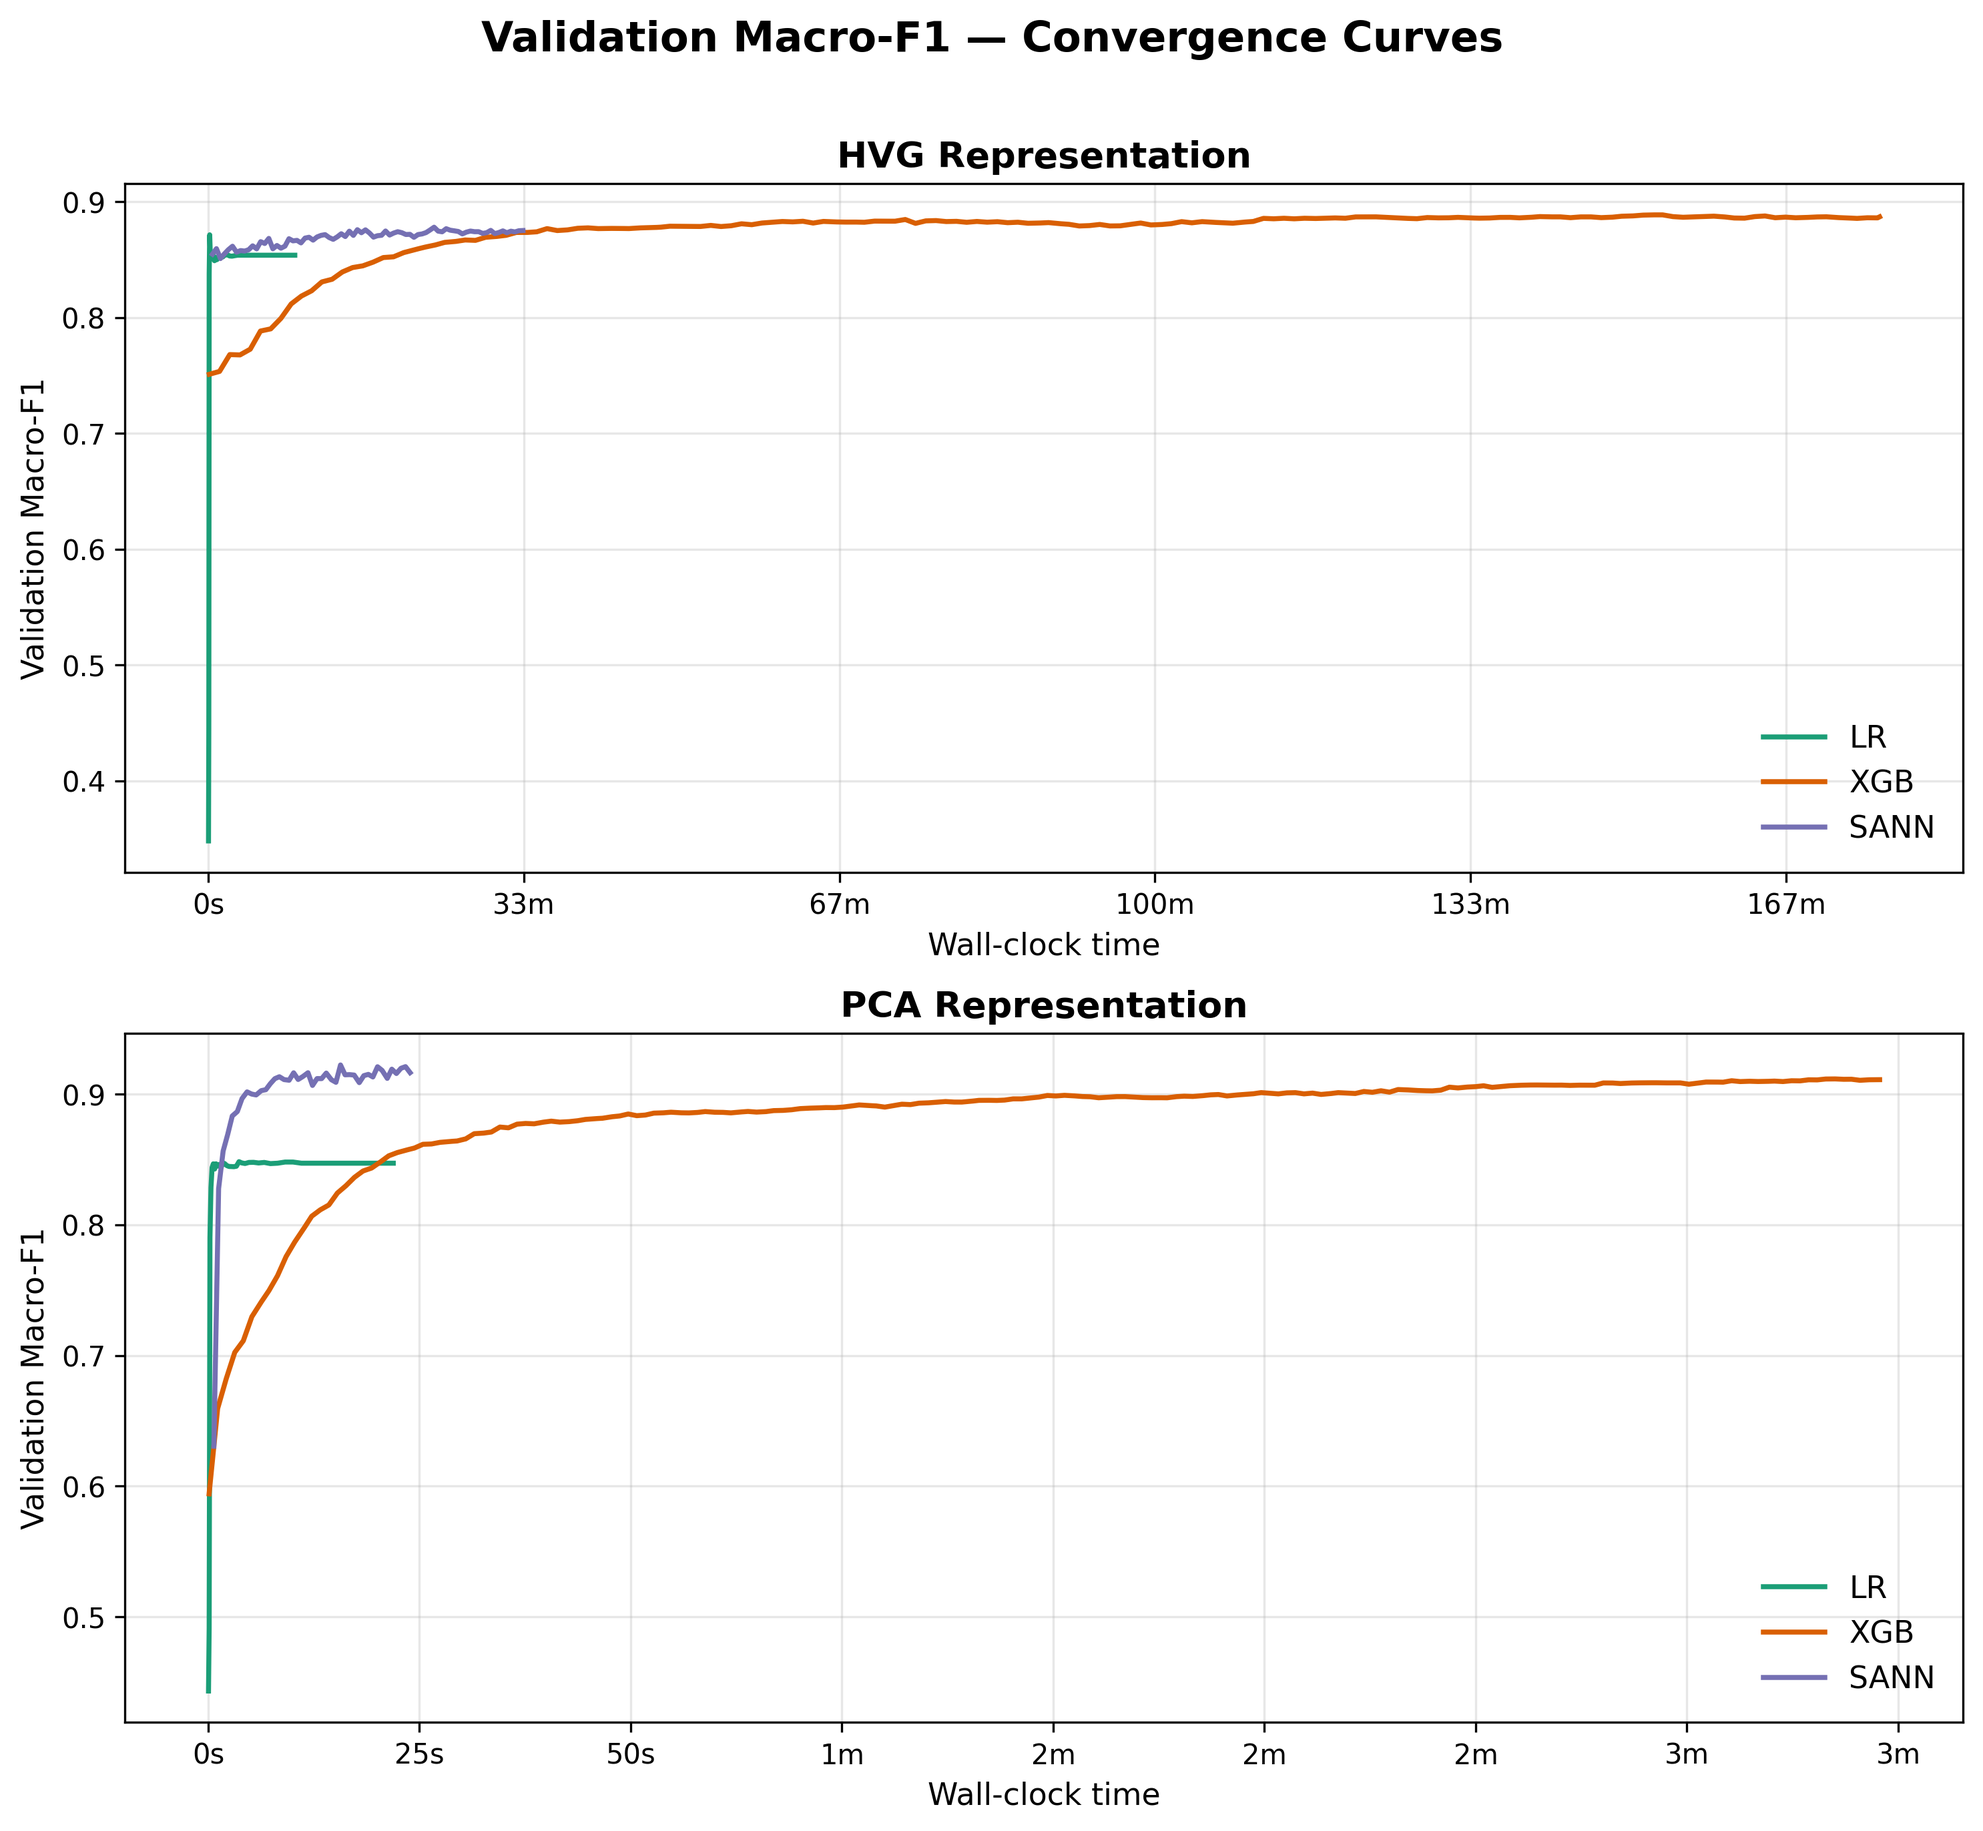
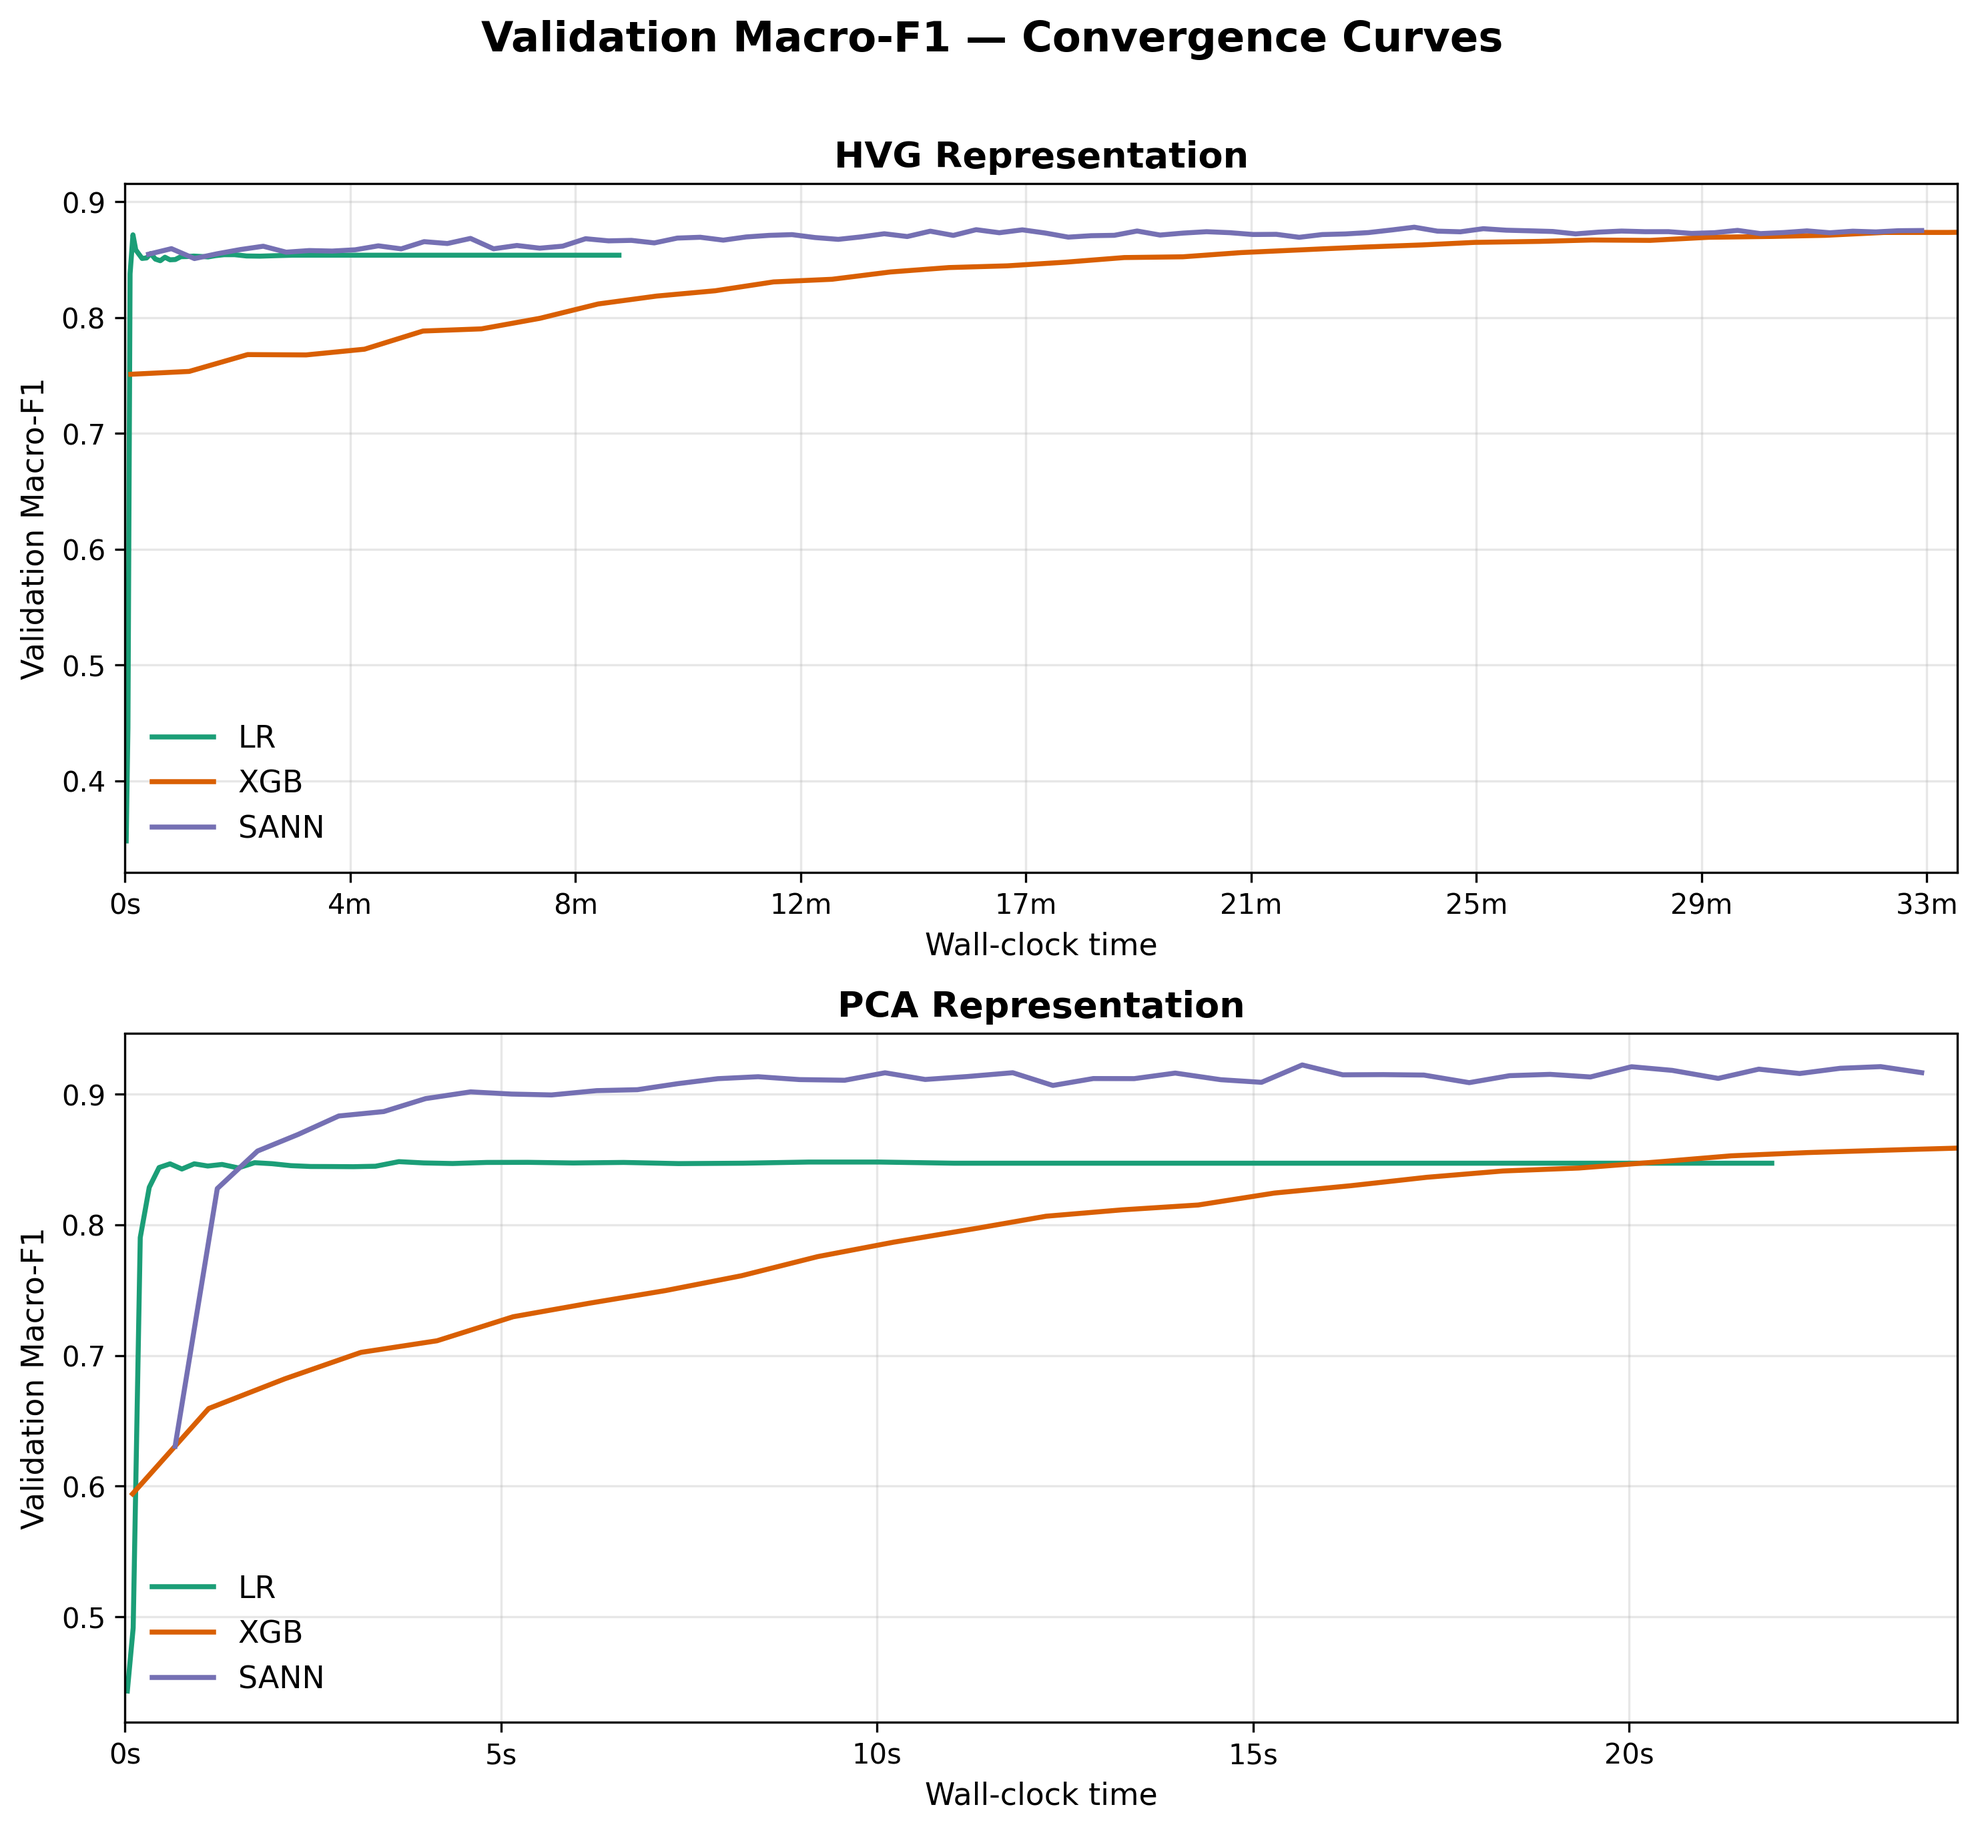
Convergence Against time now

diff --git a/src/plot_convergence_curves_option2.py b/src/plot_convergence_curves_option2.py
@@ -128,12 +128,20 @@ def main():
 
     for row, rep in enumerate(rep_labels):
         ax = axes_loss[row, 0]
+        # Use SANN's final time as the x-axis limit
+        sann_max_t = None
+        if "SANN" in reps[rep]:
+            sann_max_t = reps[rep]["SANN"][0][-1]
+
         for model in MODEL_ORDER:
             if model in reps[rep]:
                 t, vl, _ = reps[rep][model]
                 vl_plot = moving_average(vl, args.smooth) if args.smooth > 1 else vl
                 ax.plot(t, vl_plot, color=COLORS[model], linewidth=1.8,
                         label=model)
+
+        if sann_max_t is not None:
+            ax.set_xlim(0, sann_max_t * 1.02)
 
         ax.set_xlabel("Wall-clock time", fontsize=11)
         ax.set_ylabel("Validation Loss", fontsize=11)
@@ -160,12 +168,19 @@ def main():
 
     for row, rep in enumerate(rep_labels):
         ax = axes_f1[row, 0]
+        sann_max_t = None
+        if "SANN" in reps[rep]:
+            sann_max_t = reps[rep]["SANN"][0][-1]
+
         for model in MODEL_ORDER:
             if model in reps[rep]:
                 t, _, vf = reps[rep][model]
                 vf_plot = moving_average(vf, args.smooth) if args.smooth > 1 else vf
                 ax.plot(t, vf_plot, color=COLORS[model], linewidth=1.8,
                         label=model)
+
+        if sann_max_t is not None:
+            ax.set_xlim(0, sann_max_t * 1.02)
 
         ax.set_xlabel("Wall-clock time", fontsize=11)
         ax.set_ylabel("Validation Macro-F1", fontsize=11)
